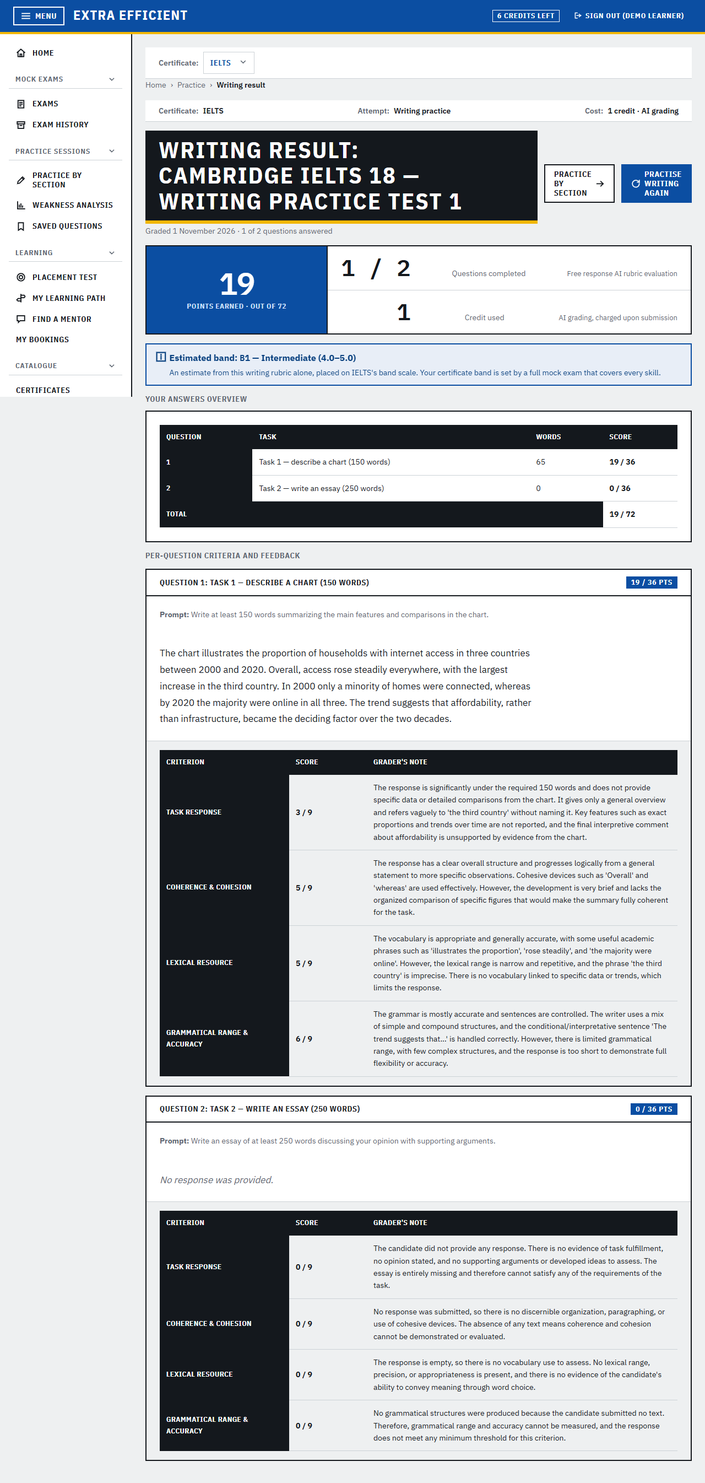
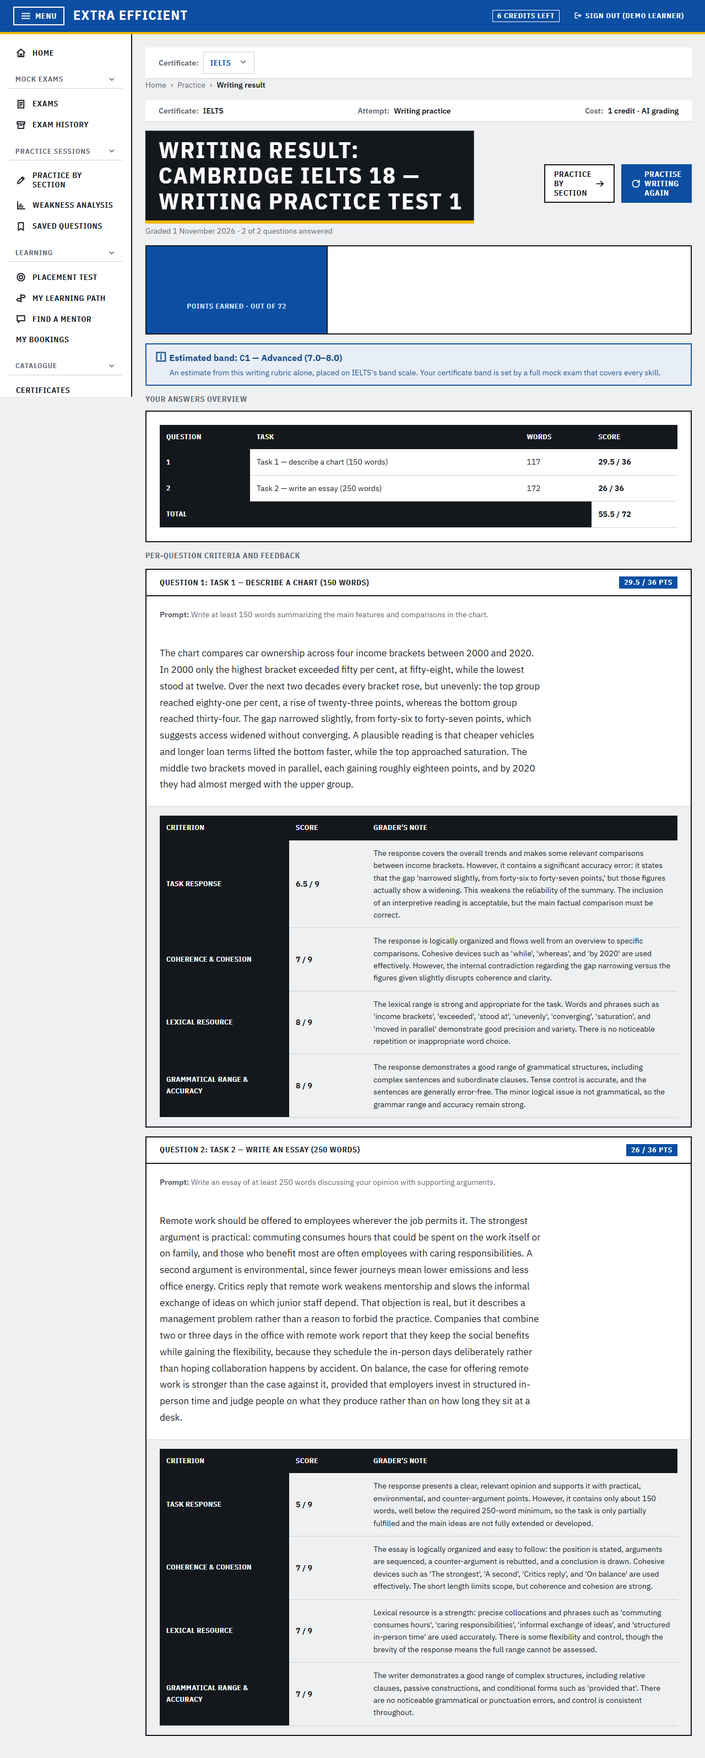
fix(grading): a zero rubric earns no band, and one estimate feeds both the column and the page (#148)
Why it broke: EstimateBandForRubricAsync converted a rubric fraction onto the span of the
certificate's ScoreBands and then handed it to MatchBandCode, which answers with the lowest
band for any score under the table. IELTS seeds no band below B1 (B1 starts at 40), so a
rubric of 0 was placed at the bottom of the span and read back as B1. Live proof was
AiGradings row 4: OverallScaled 0.00, BandCode 'B1'. A learner who submitted nothing was told
they were intermediate -- a worse false positive than the "No band is shown" line the ticket
removed. A zero score, or an attempt with nothing scored, now returns no band, and the Review
page says "No estimated band: nothing was scored" instead of printing a floor.

Same commit, the review findings:

1. Zero rubric -> no band (above). Red first: A_zero_rubric_gets_no_band_at_all_rather_than_
   the_certificates_floor fails with the guard removed and passes with it; A_substantive_rubric
   _still_gets_its_band_when_another_task_is_blank keeps "no band" from becoming the universal
   answer.
2. The stored column and the page now hold the same number. The attempt-level rubric aggregate
   is computed once, in AttemptEngine.RubricTotalsAsync (section override, else criterion max),
   and the grading worker stamps that single value on every AiGradings row of the attempt. The
   Review pages read the snapshot; they recompute only when a row predates the column being
   written, since nothing else is authoritative for it.
[…]

Changed region(s): [[0.0, 0.0, 1.0, 0.9989], [0.2188, 0.9365, 0.4062, 0.9989], [0.875, 0.3746, 0.9688, 0.4058]]

diff --git a/src/Services/Attempts/AttemptEngine.Scoring.cs b/src/Services/Attempts/AttemptEngine.Scoring.cs
@@ -167,22 +167,29 @@ public sealed partial class AttemptEngine
 
     /// <summary>
     /// The one band rule: the band whose range holds the score, else the nearest one below, else the
-    /// lowest band (a score under the table is not a refusal).
+    /// lowest band (a score under the table is not a refusal). <paramref name="bands"/> must be ordered
+    /// by lower bound. Every caller in the solution — the attempt engine, the review pages and the
+    /// certificate wizard's preview — matches through here.
     /// </summary>
-    public static string? MatchBandCode(int score, IReadOnlyList<ScoreBand> bands)
+    internal static T? MatchBand<T>(
+        int score, IReadOnlyList<T> bands, Func<T, int> minTotal, Func<T, int> maxTotal)
+        where T : class
     {
         if (bands.Count == 0) return null;
 
-        var matchingBand = bands.FirstOrDefault(b => score >= b.MinTotal && score <= b.MaxTotal);
+        var matchingBand = bands.FirstOrDefault(b => score >= minTotal(b) && score <= maxTotal(b));
         if (matchingBand is null)
         {
-            matchingBand = score < bands[0].MinTotal
+            matchingBand = score < minTotal(bands[0])
                 ? bands[0]
-                : bands.LastOrDefault(b => score >= b.MinTotal) ?? bands[^1];
+                : bands.LastOrDefault(b => score >= minTotal(b)) ?? bands[^1];
         }
 
-        return matchingBand?.Code;
+        return matchingBand;
     }
+
+    public static string? MatchBandCode(int score, IReadOnlyList<ScoreBand> bands) =>
+        MatchBand(score, bands, b => b.MinTotal, b => b.MaxTotal)?.Code;
 
     /// <summary>
     /// E1.3 (#148): the band a single AI-graded skill's rubric total belongs to, on the certificate's
@@ -192,10 +199,15 @@ public sealed partial class AttemptEngine
     /// score scale is not used here: it is absent for the writing and speaking skills (#146 left them
     /// unconfigured), and a band is defined over the certificate's total, not over one skill's range.
     /// </summary>
+    /// <remarks>
+    /// Zero scores no band. The table's lowest band is a floor, not evidence: a learner who wrote
+    /// nothing would otherwise be told they are B1 on a certificate whose lowest band starts at 40.
+    /// </remarks>
     public static async Task<ScoreBand?> EstimateBandForRubricAsync(
         CompanionDbContext db, int certId, decimal rubricTotal, decimal rubricMax, CancellationToken cancellationToken = default)
     {
-        if (rubricMax <= 0m) return null;
+        // No rubric, or nothing earned on it: no band at all.
+        if (rubricMax <= 0m || rubricTotal <= 0m) return null;
 
         var bands = await db.ScoreBands
             .AsNoTracking()
@@ -205,9 +217,61 @@ public sealed partial class AttemptEngine
         if (bands.Count == 0) return null;
 
         var fraction = Math.Clamp(rubricTotal / rubricMax, 0m, 1m);
+        // totalQuestionsInSkill = 1 is the honest value: the numerator is already a fraction of the
+        // rubric, so "out of 1" is exactly the proportional spread this call asks for.
         var score = ProjectOntoScale(fraction, null, null, null, null, bands[0].MinTotal, bands[^1].MaxTotal, 1, 1);
 
-        var code = MatchBandCode(score, bands);
-        return bands.FirstOrDefault(b => b.Code == code);
+        return MatchBand(score, bands, b => b.MinTotal, b => b.MaxTotal);
+    }
+
+    /// <summary>
+    /// E1.3 (#148): the band of a skill-practice attempt, decided once from every graded response.
+    /// Both the grading worker (which stamps it on the attempt's <c>AiGradings</c> rows) and the two
+    /// review pages call this, so the stored column and the page cannot disagree, and an attempt with
+    /// nothing scored gets no band rather than the certificate's floor.
+    /// </summary>
+    public static async Task<ScoreBand?> EstimateBandForAttemptAsync(
+        CompanionDbContext db, int attemptId, int certId, CancellationToken cancellationToken = default)
+    {
+        var (total, max) = await RubricTotalsAsync(db, attemptId, cancellationToken);
+        return await EstimateBandForRubricAsync(db, certId, total, max, cancellationToken);
+    }
+
+    /// <summary>
+    /// E1.3 (#148): the rubric aggregate the attempt-level band is stored from — every AI-graded
+    /// response's score over every applicable criterion maximum (section override when there is one,
+    /// else the criterion's). One definition, used by the grading worker so the stored band and the
+    /// review page cannot drift apart.
+    /// </summary>
+    public static async Task<(decimal Total, decimal Max)> RubricTotalsAsync(
+        CompanionDbContext db, int attemptId, CancellationToken cancellationToken = default)
+    {
+        var scores = await db.AiGradingScores
+            .AsNoTracking()
+            .Where(s => s.AiGrading.FreeResponse.AttemptId == attemptId
+                && s.AiGrading.Status == AiGradingStatus.Done.ToCode())
+            .Include(s => s.GradingCriterion)
+            .Include(s => s.AiGrading).ThenInclude(g => g.FreeResponse).ThenInclude(fr => fr.Question)
+            .ToListAsync(cancellationToken);
+
+        if (scores.Count == 0) return (0m, 0m);
+
+        var sectionIds = scores.Select(s => s.AiGrading.FreeResponse.Question.SectionId).Distinct().ToList();
+        var overrides = await db.SectionCriteria
+            .AsNoTracking()
+            .Where(sc => sectionIds.Contains(sc.SectionId))
+            .ToListAsync(cancellationToken);
+
+        decimal total = 0m, max = 0m;
+        foreach (var score in scores)
+        {
+            var sectionId = score.AiGrading.FreeResponse.Question.SectionId;
+            total += score.Score;
+            max += overrides
+                .FirstOrDefault(sc => sc.SectionId == sectionId && sc.CriterionId == score.CriterionId)
+                ?.MaxScore ?? score.GradingCriterion.MaxScore;
+        }
+
+        return (total, max);
     }
 }

diff --git a/tests/Services.Tests/AiGradingProcessorTests.cs b/tests/Services.Tests/AiGradingProcessorTests.cs
@@ -235,7 +235,9 @@ public sealed class AiGradingProcessorTests(DatabaseFixture database)
     /// <summary>Starts a writing attempt on the exam, submits it, grades it and returns the bands the
     /// gradings carry. <paramref name="grader"/> decides the rubric scores.</summary>
     private async Task<(int attemptId, List<string?> gradingBands)> GradeWritingPracticeAsync(
-        string certCode, int examId, int q1Id, int q2Id, IAiGrader grader)
+        string certCode, int examId, int q1Id, int q2Id, IAiGrader grader,
+        string q1Answer = "A woman is reading a book on a train.",
+        string q2Answer = "Working from home provides flexibility to many employees.")
     {
         var userId = await SeedLearnerAsync(certCode, startingCredits: 3);
 
@@ -243,8 +245,8 @@ public sealed class AiGradingProcessorTests(DatabaseFixture database)
         var writingService = new WritingPracticeService(db, new LearnerService(db));
 
         var info = await writingService.StartAttemptAsync(userId, examId);
-        await writingService.SaveDraftAsync(userId, info.AttemptId, q1Id, "A woman is reading a book on a train.");
-        await writingService.SaveDraftAsync(userId, info.AttemptId, q2Id, "Working from home provides flexibility to many employees.");
+        await writingService.SaveDraftAsync(userId, info.AttemptId, q1Id, q1Answer);
+        await writingService.SaveDraftAsync(userId, info.AttemptId, q2Id, q2Answer);
         await writingService.SubmitAttemptAsync(userId, info.AttemptId);
 
         await new AiGradingProcessor(db, grader).ProcessPendingGradingsAsync(10);
@@ -283,11 +285,12 @@ public sealed class AiGradingProcessorTests(DatabaseFixture database)
         Assert.Null(attempt.BandCode);
         Assert.Null(attempt.TotalScore);
 
-        // The review page has something to render under "estimated band".
+        // The review page renders the stored column, so the two cannot disagree.
         var review = await new WritingPracticeService(db, new LearnerService(db))
             .GetAttemptReviewAsync(attempt.UserId, attemptId);
         Assert.False(string.IsNullOrEmpty(review.EstimatedBandCode));
         Assert.Contains(review.EstimatedBandCode!, ownCodes);
+        Assert.All(gradingBands, band => Assert.Equal(review.EstimatedBandCode, band));
     }
 
     [Fact]
@@ -311,6 +314,49 @@ public sealed class AiGradingProcessorTests(DatabaseFixture database)
         Assert.All(wideBands, band => Assert.Equal("C1", band));
         // "C2" exists only on the 0-9 certificate: the lookup used that certificate's own table.
         Assert.All(nineBands, band => Assert.Equal("C2", band));
+    }
+
+    [Fact]
+    public async Task A_zero_rubric_gets_no_band_at_all_rather_than_the_certificates_floor()
+    {
+        // The proof case from the live run: IELTS seeds no band below B1 (B1 starts at 40), so a
+        // learner who wrote nothing was told they were B1. A floor is not evidence.
+        var certCode = Unique("GB04");
+        var (certId, examId, q1Id, q2Id) = await SeedWritingExamFixtureAsync(certCode);
+        await SeedBandsAsync(certId, ("B1", 40, 50), ("B2", 55, 65), ("C1", 70, 80), ("C2", 85, 90));
+
+        var (attemptId, gradingBands) = await GradeWritingPracticeAsync(
+            certCode, examId, q1Id, q2Id, new FakeAiGrader(), q1Answer: "", q2Answer: "");
+
+        await using var db = DbContextFactory.Create(database.ConnectionString);
+        Assert.Equal(2, gradingBands.Count);
+        Assert.All(gradingBands, Assert.Null);
+
+        var review = await new WritingPracticeService(db, new LearnerService(db))
+            .GetAttemptReviewAsync(
+                (await db.ExamAttempts.SingleAsync(a => a.AttemptId == attemptId)).UserId, attemptId);
+        Assert.Null(review.EstimatedBandCode);
+    }
+
+    [Fact]
+    public async Task A_substantive_rubric_still_gets_its_band_when_another_task_is_blank()
+    {
+        // The fix must not turn "no band" into the universal answer: one answered task out of two is
+        // still evidence, and the attempt-level estimate must survive it.
+        var certCode = Unique("GB05");
+        var (certId, examId, q1Id, q2Id) = await SeedWritingExamFixtureAsync(certCode);
+        await SeedBandsAsync(certId, ("B1", 40, 50), ("B2", 55, 65), ("C1", 70, 80), ("C2", 85, 90));
+
+        var (attemptId, gradingBands) = await GradeWritingPracticeAsync(
+            certCode, examId, q1Id, q2Id, new FakeAiGrader(), q2Answer: "");
+
+        await using var db = DbContextFactory.Create(database.ConnectionString);
+        Assert.Contains(gradingBands, band => !string.IsNullOrEmpty(band));
+
+        var review = await new WritingPracticeService(db, new LearnerService(db))
+            .GetAttemptReviewAsync(
+                (await db.ExamAttempts.SingleAsync(a => a.AttemptId == attemptId)).UserId, attemptId);
+        Assert.False(string.IsNullOrEmpty(review.EstimatedBandCode));
     }
 
     private sealed class CustomScoreGrader(decimal fixedScore) : IAiGrader

diff --git a/src/Services/AiGradingProcessor.cs b/src/Services/AiGradingProcessor.cs
@@ -135,7 +135,6 @@ public sealed class AiGradingProcessor(
                 db.AiGradingScores.RemoveRange(existingScores);
 
                 decimal totalScore = 0m;
-                decimal rubricMax = 0m;
                 foreach (var s in result.Scores)
                 {
                     var detail = criteriaDetails.FirstOrDefault(c => c.CriterionId == s.CriterionId);
@@ -151,7 +150,6 @@ public sealed class AiGradingProcessor(
                         Comment = s.Comment
                     });
                     totalScore += clampedScore;
-                    rubricMax += max;
                 }
 
                 fr.Status = FreeResponseStatus.Graded.ToCode();
@@ -160,10 +158,6 @@ public sealed class AiGradingProcessor(
                 grading.Model = result.Model ?? FakeAiGrader.DefaultModel;
                 grading.FailureReason = null;
                 grading.OverallScaled = totalScore;
-                // E1.3 (#148): the band this rubric belongs to on the certificate's own axis. A
-                // snapshot, so a later band edit does not rewrite history.
-                grading.BandCode = (await AttemptEngine.EstimateBandForRubricAsync(
-                    db, fr.Attempt.CertId, totalScore, rubricMax, cancellationToken))?.Code;
 
                 await db.SaveChangesAsync(cancellationToken);
 
@@ -202,8 +196,16 @@ public sealed class AiGradingProcessor(
                                 || purpose == ExamPurpose.WritingPractice.ToCode())
                             {
                                 // A skill practice scores one rubric; the attempt itself claims no
-                                // certificate total or band. The estimate is on AiGradings.BandCode.
+                                // certificate total. Its band is the estimate over every graded
+                                // response, stamped on the attempt's gradings so the column and the
+                                // review page carry one number. Zero earns none.
                                 attempt.TotalScore = null;
+                                var band = await AttemptEngine.EstimateBandForAttemptAsync(
+                                    db, attempt.AttemptId, attempt.CertId, cancellationToken);
+                                var gradings = await db.AiGradings
+                                    .Where(g => g.FreeResponse.AttemptId == attempt.AttemptId)
+                                    .ToListAsync(cancellationToken);
+                                foreach (var g in gradings) g.BandCode = band?.Code;
                             }
 
                             await db.SaveChangesAsync(cancellationToken);

diff --git a/src/Services/WritingPracticeService.cs b/src/Services/WritingPracticeService.cs
@@ -592,11 +592,26 @@ public sealed class WritingPracticeService(
             overallMaxScore += qMax;
         }
 
-        // E1.3 (#148): the estimate covers the whole practice, so an unanswered task lowers it — the
-        // same rubric total on a fully answered practice lands higher. This is deliberately the
-        // attempt-level number; AiGradings.BandCode keeps the per-task snapshot.
-        var estimatedBand = await AttemptEngine.EstimateBandForRubricAsync(
-            db, attempt.CertId, overallTotalScore, overallMaxScore, cancellationToken);
+        // E1.3 (#148): display the snapshot the grading worker stored, not a live recomputation — the
+        // column and the page must be the same number. The worker stamps every grading of the attempt
+        // with the attempt-level estimate, so any one of them carries it. A row graded before this
+        // existed has no snapshot and nothing else is authoritative, so only then compute it.
+        var estimatedCode = freeResponses
+            .Select(fr => fr.AiGradingFreeResponse?.BandCode)
+            .FirstOrDefault(code => !string.IsNullOrEmpty(code));
+        if (estimatedCode is null)
+        {
+            estimatedCode = (await AttemptEngine.EstimateBandForAttemptAsync(
+                db, attempt.AttemptId, attempt.CertId, cancellationToken))?.Code;
+        }
+
+        var estimatedName = estimatedCode is null
+            ? null
+            : await db.ScoreBands
+                .AsNoTracking()
+                .Where(b => b.CertId == attempt.CertId && b.Code == estimatedCode)
+                .Select(b => b.Name)
+                .FirstOrDefaultAsync(cancellationToken);
 
         return new WritingReviewView(
             attempt.AttemptId,
@@ -609,7 +624,7 @@ public sealed class WritingPracticeService(
             overallTotalScore,
             overallMaxScore,
             questionItems,
-            estimatedBand?.Code,
-            estimatedBand?.Name);
+            estimatedCode,
+            estimatedName);
     }
 }

diff --git a/src/Services/SpeakingPracticeService.cs b/src/Services/SpeakingPracticeService.cs
@@ -642,8 +642,26 @@ public sealed class SpeakingPracticeService(
             scaledScore = (int)Math.Round((overallTotalScore / overallMaxScore) * 200m, MidpointRounding.AwayFromZero);
         }
 
-        var estimatedBand = await AttemptEngine.EstimateBandForRubricAsync(
-            db, attempt.CertId, overallTotalScore, overallMaxScore, cancellationToken);
+        // E1.3 (#148): display the snapshot the grading worker stored, not a live recomputation — the
+        // column and the page must be the same number. The worker stamps every grading of the attempt
+        // with the attempt-level estimate, so any one of them carries it. A row graded before this
+        // existed has no snapshot and nothing else is authoritative, so only then compute it.
+        var estimatedCode = freeResponses
+            .Select(fr => fr.AiGradingFreeResponse?.BandCode)
+            .FirstOrDefault(code => !string.IsNullOrEmpty(code));
+        if (estimatedCode is null)
+        {
+            estimatedCode = (await AttemptEngine.EstimateBandForAttemptAsync(
+                db, attempt.AttemptId, attempt.CertId, cancellationToken))?.Code;
+        }
+
+        var estimatedName = estimatedCode is null
+            ? null
+            : await db.ScoreBands
+                .AsNoTracking()
+                .Where(b => b.CertId == attempt.CertId && b.Code == estimatedCode)
+                .Select(b => b.Name)
+                .FirstOrDefaultAsync(cancellationToken);
 
         return new SpeakingReviewView(
             attempt.AttemptId,
@@ -658,8 +676,8 @@ public sealed class SpeakingPracticeService(
             scaledScore,
             questionItems,
             lowest,
-            estimatedBand?.Code,
-            estimatedBand?.Name);
+            estimatedCode,
+            estimatedName);
     }
 
     public async Task<FileStreamResultInfo?> GetAudioFileAsync(int userId, int attemptId, int questionId, CancellationToken cancellationToken = default)

diff --git a/src/Services/Scoring/ScoreConversionService.Preview.cs b/src/Services/Scoring/ScoreConversionService.Preview.cs
@@ -204,22 +204,12 @@ public sealed partial class ScoreConversionService
 
         int totalScore = AttemptEngine.AggregateTotalScore(request.ScoreAggregationRule, simulatedSkillScores);
 
-        // Match band
-        string? matchedBandCode = null;
-        string? matchedBandName = null;
-        if (bandEntries.Count > 0)
-        {
-            var orderedBands = bandEntries.OrderBy(b => b.MinTotal).ToList();
-            var matchingBand = orderedBands.FirstOrDefault(b => totalScore >= b.MinTotal && totalScore <= b.MaxTotal);
-            if (matchingBand == null)
-            {
-                matchingBand = totalScore < orderedBands[0].MinTotal
-                    ? orderedBands[0]
-                    : orderedBands.LastOrDefault(b => totalScore >= b.MinTotal) ?? orderedBands[^1];
-            }
-            matchedBandCode = matchingBand.Code;
-            matchedBandName = matchingBand.Name;
-        }
+        // The band rule is AttemptEngine's, not a copy: a certificate preview and a real submission
+        // must never disagree about which band a score falls in.
+        var matchingBand = AttemptEngine.MatchBand(
+            totalScore, bandEntries.OrderBy(b => b.MinTotal).ToList(), b => b.MinTotal, b => b.MaxTotal);
+        var matchedBandCode = matchingBand?.Code;
+        var matchedBandName = matchingBand?.Name;
 
         return new ScorePreviewResult(
             request.ScoreAggregationRule ?? "sum",

diff --git a/docs/STATE.md b/docs/STATE.md
@@ -23,6 +23,7 @@
 | D11 | **`Skills.LockNavigationOneWay` là BIT NOT NULL DEFAULT 0**, seed backfill `1` cho mọi skill `Modality = 'listening'` | 11-01 | Phải giữ nguyên hành vi cert đã seed: TOEIC Listening khoá một chiều hôm nay | Cert mới mặc định 0 = đi lại tự do, đúng như trước #149 khi mã không phải `'LIST'`. Đảo lại thì mọi cert tự tạo lập tức mất điều hướng tự do |
 | D12 | **Mọi cột goal trên `TargetBands` đều NULLable; `FeasibilityStatus` NULL = "chưa có hạn", không phải "bất khả thi"** | 11-01 | Placement flow tạo row chỉ với band code; NOT NULL sẽ vỡ mọi learner đã seed và mọi test hiện có trong một commit | "Không có câu trả lời" là một câu trả lời hợp lệ. `CK_TargetBands_AnswerNeedsDeadline` chặn verdict khi thiếu ngày, nhưng cho phép cả hai cùng NULL |
 | D13 | **`ScoreBands.CumulativeStudyHours` NULLable, và công thức là code, không phải LLM** | 11-01 | Band không phải CEFR (`CAT_B1`, `SW_B2`) không có con số giờ nào bảo vệ được; bịa ra là biến "chưa biết" thành lời từ chối đầy tự tin | `GoalFeasibilityCalculator.Evaluate` trả `null` cho những cert đó; AI chỉ được diễn đạt các con số, không được tự tính lại |
+| D14 | **Band của một rubric kỹ năng là ước lượng, và được phép chạm band cao nhất** — không cắt trần, không có band riêng cho từng kỹ năng | 11-01 | Trần là một con số bịa: không `ScoreBands` của cert nào định nghĩa "trần cho một kỹ năng", nên cắt xuống là đảo D2/D13 (band phải tra từ bảng của chính cert). Bài viết hoàn hảo được C2 là đúng nghĩa đen của "rubric này nằm ở dải C2" | `AiGradings.BandCode` giữ ước lượng; `ExamAttempts.BandCode`/`TotalScore` vẫn NULL cho skill practice; câu chữ trên trang Review nói rõ đây là ước lượng từ một kỹ năng và band chứng chỉ do mock exam đầy đủ quyết định. **Điểm 0 thì không có band** — band thấp nhất của bảng không phải bằng chứng |
 
 ## 2. Quyết định còn treo
 

diff --git a/docs/MASTER-SPEC.md b/docs/MASTER-SPEC.md
@@ -45,7 +45,7 @@
 
 ### Xoá
 
-`PathModuleItems.IsPremiumOnly` · trigger `trg_Attempts_NoBandForSpeakingPractice` · bộ lọc `all/wrong_before/unseen` + ô chọn số lượng câu · micro-check chấm client · `PracticeSessions.FeedbackMode` · `_DashboardSimulator` (widget + CSS + ViewModel) · `SaveGroup`/`SaveQuestion` form-post · `CompleteStepAsync` · `/admin/imports` + `/admin/exams/{id}/questions` shim · trang `/admin/score-conversion` · 2 đề Placement "Quick"/"Standard" + chữ "Adaptive" · dropdown Status ở Exam Editor step 1 · ô text `AudioPath`/`ImagePath` · 3 bảng band JS · `GetFallbackScale` cả 2 bản · fallback `MaximumScore=990` · nhãn "0–200 scale" · "No band is shown for writing alone" · `if (!fBands.Any()) … ` nhánh `independent → TotalScore=0`.
+`PathModuleItems.IsPremiumOnly` · nhánh band của trigger `trg_Attempts_NoBandForSpeakingPractice` (đổi tên thành `trg_Attempts_NoTotalScoreForSkillPractice`, nhánh `TotalScore` giữ lại) · bộ lọc `all/wrong_before/unseen` + ô chọn số lượng câu · micro-check chấm client · `PracticeSessions.FeedbackMode` · `_DashboardSimulator` (widget + CSS + ViewModel) · `SaveGroup`/`SaveQuestion` form-post · `CompleteStepAsync` · `/admin/imports` + `/admin/exams/{id}/questions` shim · trang `/admin/score-conversion` · 2 đề Placement "Quick"/"Standard" + chữ "Adaptive" · dropdown Status ở Exam Editor step 1 · ô text `AudioPath`/`ImagePath` · 3 bảng band JS · `GetFallbackScale` cả 2 bản · fallback `MaximumScore=990` · nhãn "0–200 scale" · "No band is shown for writing alone" · `if (!fBands.Any()) … ` nhánh `independent → TotalScore=0`.
 
 ---
 

diff --git a/docs/STATUS.md b/docs/STATUS.md
@@ -37,10 +37,11 @@ Sau đó: #154/#155/#156 → #157 → #159 → #160–#162.
 | #147 — wizard ghi scale + band + rubric | `6a407ab` + `3baa688` | cert tạo xong chấm được ngay; `/admin/score-conversion` đã xoá |
 | #148 — kỹ năng sản phẩm có band | `e786295` | Claude thật: `AiGradings.BandCode` `NULL` → `A2` (TOEIC) / `B2` (IELTS); trigger band đã gỡ |
 
-`dotnet test`: **1398 pass, 0 fail**. E2E: 47 skip khi không có app chạy.
+`dotnet test`: **1404 pass, 0 fail**. E2E: 47 skip khi không có app chạy; khi chạy trên
+`scripts/crawl-env.sh fresh` thì **43 pass / 8 fail**, đúng bằng 8 fail trên `1106103`.
 
-**Nợ kỹ thuật đã biết:** 13 test trong `WebMVC.E2ETests` fail khi có app chạy, **giống hệt trên
-`a3acc06`** — hỏng sẵn, không phải do #147. Trước giờ ẩn vì thiếu `E2E_BASE_URL`. Cần ticket riêng.
+**Nợ kỹ thuật đã biết:** 8 test trong `WebMVC.E2ETests` fail khi có app chạy, **giống hệt trên
+`1106103`** — hỏng sẵn, không phải do #148. Trước giờ ẩn vì thiếu `E2E_BASE_URL`. Cần ticket riêng.
 
 ## 4. Quyết định mới chốt sau STATE.md
 
